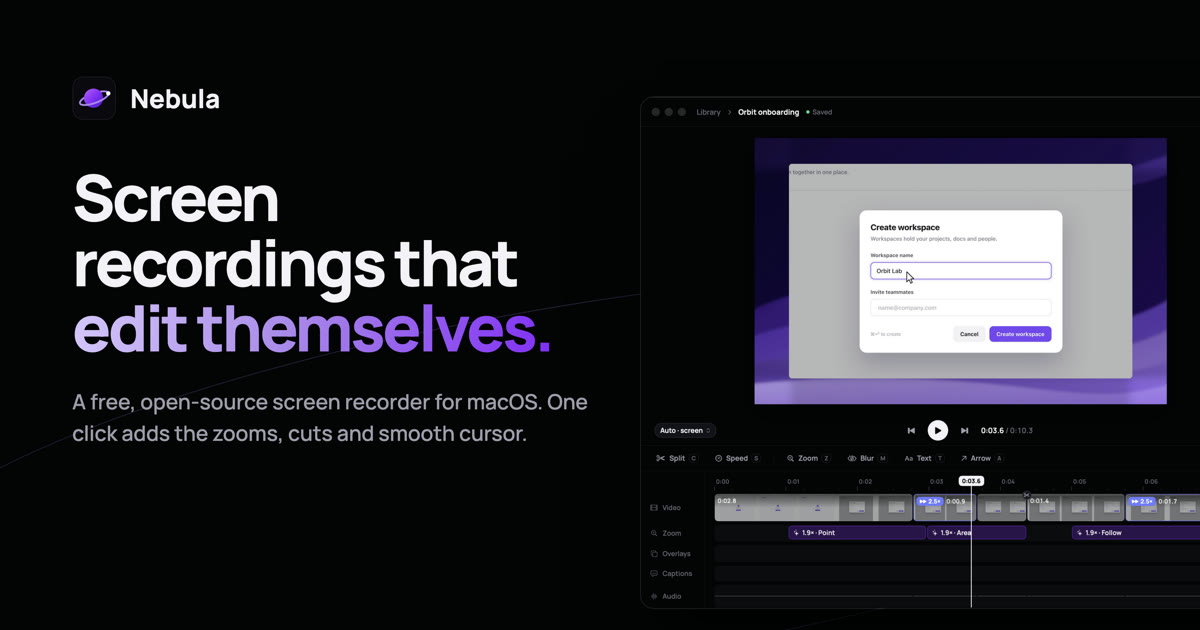
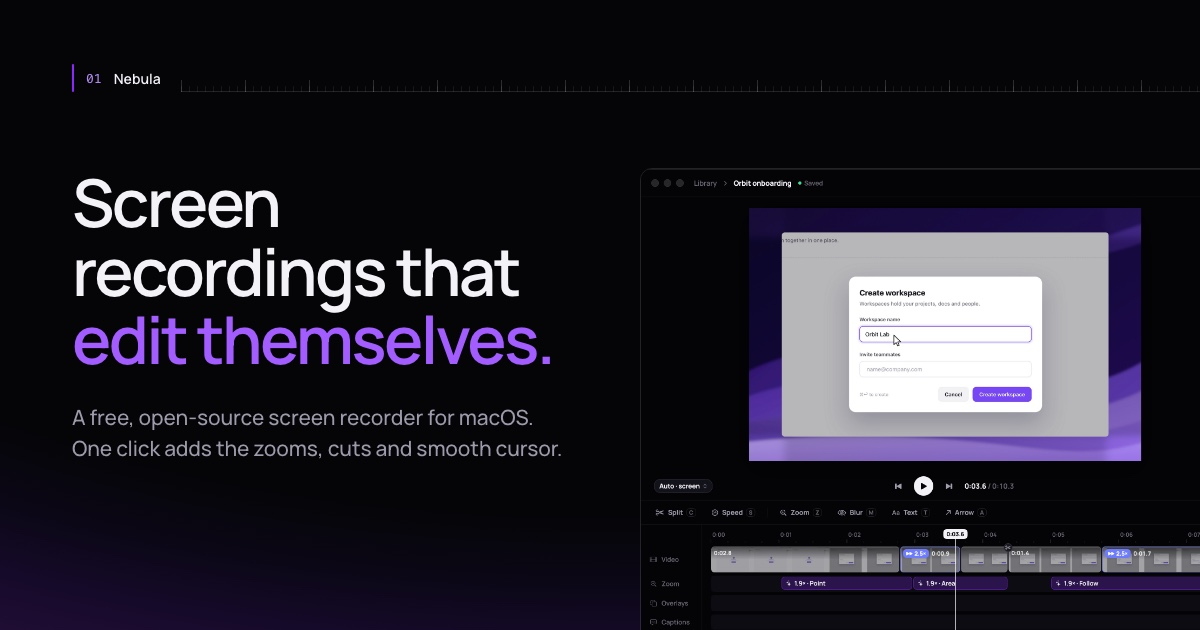
Redesign share image in the editorial style

diff --git a/website/tools/og.html b/website/tools/og.html
@@ -1,31 +1,37 @@
 <!doctype html>
-<!-- The social preview image (public/og.jpg). Render at 1200×630, e.g. with tools/demo's Electron. -->
+<!-- The social preview image (public/og.jpg). Render at 1200×630, e.g. with tools/og-render.cjs (headless Chrome). -->
 <html>
 <head>
 <meta charset="utf-8">
 <style>
 	@font-face { font-family: Manrope; src: url("../node_modules/@fontsource-variable/manrope/files/manrope-latin-wght-normal.woff2") format("woff2"); font-weight: 200 800; }
 	* { margin: 0; box-sizing: border-box; }
-	html, body { width: 1200px; height: 630px; overflow: hidden; background: #040406; font-family: Manrope, sans-serif; color: #f3f2f7; }
-	.copy { position: absolute; left: 72px; top: 76px; width: 520px; }
-	.brand { display: flex; align-items: center; gap: 14px; font-size: 26px; font-weight: 780; }
-	h1 { margin-top: 44px; font-size: 64px; line-height: 1.02; letter-spacing: -0.045em; font-weight: 790; }
-	h1 span { background: linear-gradient(100deg, #d9c8ff, #b089f0 45%, #8c28ff); -webkit-background-clip: text; color: transparent; }
-	p { margin-top: 26px; font-size: 21px; line-height: 1.5; color: #a09ead; font-weight: 560; }
-	.shot { position: absolute; left: 640px; top: 96px; width: 820px; border-radius: 14px; border: 1px solid rgba(255,255,255,0.1); box-shadow: 0 40px 80px -20px rgba(0,0,0,0.9); }
-	.ring { position: absolute; left: -140px; top: 300px; width: 1500px; height: 360px; border: 1.2px solid rgba(176,137,240,0.2); border-radius: 50%; transform: rotate(-9deg); }
+	html, body { width: 1200px; height: 630px; overflow: hidden; font-family: Manrope, sans-serif; color: #f3f2f7; -webkit-font-smoothing: antialiased; }
+	body { position: relative; background:
+		radial-gradient(115% 105% at 50% 6%, transparent 72%, rgba(104, 40, 255, 0.06) 82%, rgba(124, 40, 255, 0.14) 92%, rgba(150, 50, 255, 0.19) 100%),
+		#050507; }
+	.chapter { position: absolute; left: 72px; right: 0; top: 64px; height: 28px; display: flex; align-items: center; gap: 12px; }
+	.marker { align-self: stretch; width: 2px; border-radius: 1px; background: #8c28ff; }
+	.number { font-family: ui-monospace, Menlo, monospace; font-size: 13px; color: #b089f0; }
+	.name { font-size: 14px; font-weight: 600; }
+	.ruler { flex: 1; align-self: flex-end; height: 12px; margin-left: 8px;
+		background:
+			linear-gradient(rgba(255,255,255,0.12), rgba(255,255,255,0.12)) left bottom / 100% 1px no-repeat,
+			repeating-linear-gradient(90deg, rgba(255,255,255,0.16) 0 1px, transparent 1px 64px) left bottom / 100% 12px no-repeat,
+			repeating-linear-gradient(90deg, rgba(255,255,255,0.07) 0 1px, transparent 1px 8px) left bottom / 100% 6px no-repeat; }
+	.copy { position: absolute; left: 72px; top: 168px; width: 500px; }
+	h1 { font-size: 66px; line-height: 1.04; letter-spacing: -0.04em; font-weight: 600; }
+	h1 span { color: #a35cff; }
+	p { margin-top: 28px; font-size: 21px; line-height: 1.5; color: #9d9aab; font-weight: 500; letter-spacing: -0.005em; }
+	.shot { position: absolute; left: 640px; top: 168px; width: 780px; border-radius: 12px; border: 1px solid rgba(255,255,255,0.12); }
 </style>
 </head>
 <body>
-	<div class="ring"></div>
-	<img class="shot" src="../src/assets/shots/editor.png" alt="">
+	<div class="chapter"><span class="marker"></span><span class="number">01</span><span class="name">Nebula</span><span class="ruler"></span></div>
 	<div class="copy">
-		<div class="brand">
-			<svg width="44" height="44" viewBox="0 0 64 64"><defs><linearGradient id="o" x1="0" y1="0" x2="1" y2="1"><stop offset="0" stop-color="#c45cff"/><stop offset="0.5" stop-color="#8c28ff"/><stop offset="1" stop-color="#4f1bc9"/></linearGradient></defs><rect x="1" y="1" width="62" height="62" rx="15" fill="#0b0910" stroke="rgba(255,255,255,0.1)"/><path d="M10 32 A 22 7 0 0 1 54 32" fill="none" stroke="#b089f0" stroke-width="2.6" transform="rotate(-20 32 32)"/><circle cx="31" cy="32" r="14" fill="url(#o)"/><path d="M54 32 A 22 7 0 0 1 10 32" fill="none" stroke="#b089f0" stroke-width="2.6" transform="rotate(-20 32 32)"/><circle cx="52.5" cy="25" r="3.2" fill="#fff"/></svg>
-			Nebula
-		</div>
 		<h1>Screen recordings that <span>edit themselves.</span></h1>
 		<p>A free, open-source screen recorder for macOS. One click adds the zooms, cuts and smooth cursor.</p>
 	</div>
+	<img class="shot" src="../src/assets/shots/editor.png" alt="">
 </body>
 </html>
